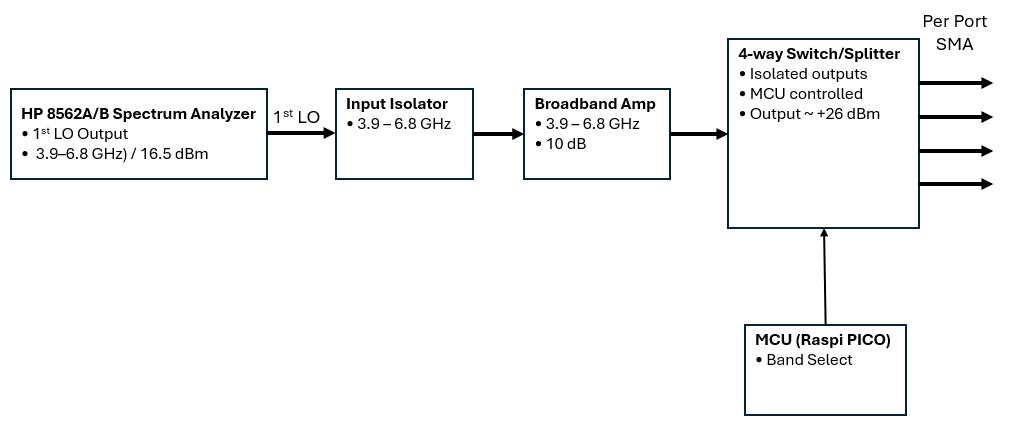
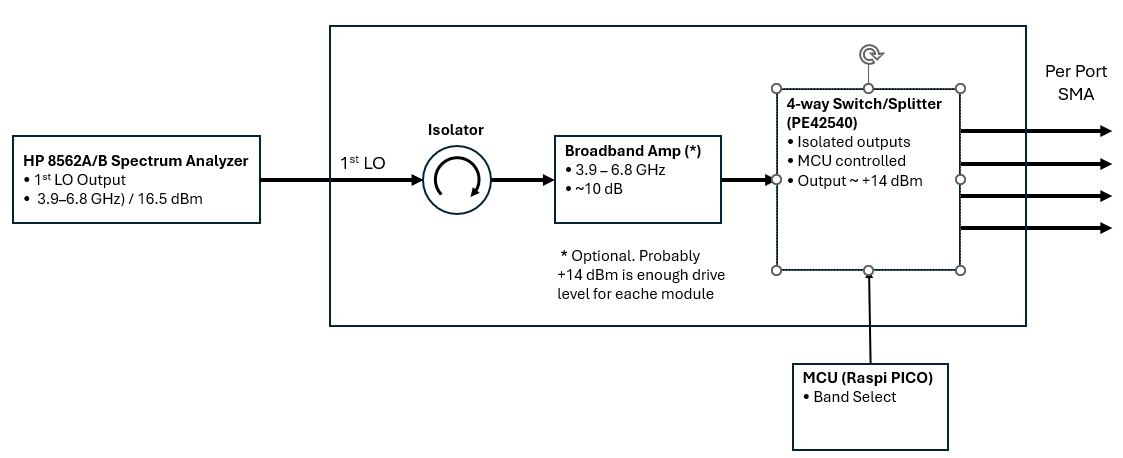
Rethinking LO distribution. With a PE42540  SP4T RF Switch an amplifier might not be needed

diff --git a/docs/architecture/04-rf-sa-lo-distribution.md b/docs/architecture/04-rf-sa-lo-distribution.md
@@ -16,7 +16,6 @@ Its responsibilities:
 - Provide stable impedance and isolation  
 - Amplify the LO to compensate for splitter loss  
 - Split the LO into four well‑behaved outputs  
-- Deliver a consistent **+16 dBm** to each TG module  
 - Ensure each module can achieve **+13 dBm at the mixer LO pin**
 
 This board forms the **central LO backbone** for the entire TG system.
@@ -32,7 +31,7 @@ This board forms the **central LO backbone** for the entire TG system.
 
 ### Internal processing  
 - Isolator stabilizes return loss and protects the analyzer (a 10dB gain-block would also give enough isolation) 
-- Broadband amplifier restores headroom before splitting  
+- Broadband amplifier restores headroom before splitting (probably not necessary with CMOS siwtch such as PE42540)
 - Splitter (Wilkinson, relays or MMICs) provides isolation between TG modules  
 - Per‑branch pads flatten response and set final level
 
@@ -57,11 +56,9 @@ Each TG module receives:
 |:-------|-----------:|------:|
 | SA 1st LO | — | +16.5 dBm |
 | Isolator | –0.5 dB | +16 dBm |
-| Broadband amplifier | +10 dB | +26 dBm |
-| 4‑way split | –7 dB | +19 dBm |
-| Per‑port pad | –3 dB | **+16 dBm** |
-| TG module LO input | — | +16 dBm |
-| On‑module pad/filter | –3 dB | **+13 dBm at mixer LO pin** |
+| 4-way split (PE42540) | -1.5 dB | +14.5 dBm |
+| TG module LO input | — | +14.5 dBm |
+| On‑module pad/filter | –3 dB | **+11 dBm at mixer LO pin** |
 
 ---
 
@@ -98,6 +95,6 @@ Designed to support:
 - Additional TG modules  
 - Higher‑frequency LO distribution  
 - Optional per‑branch filtering  
-- Optional LO mute switching
+- LO mute switching thru MCU
 
 ---
